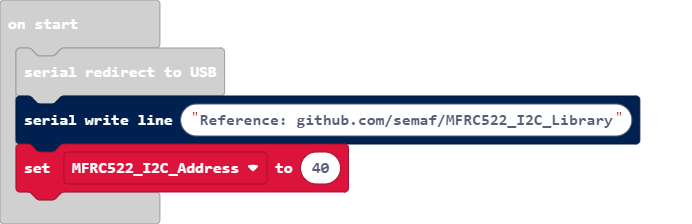
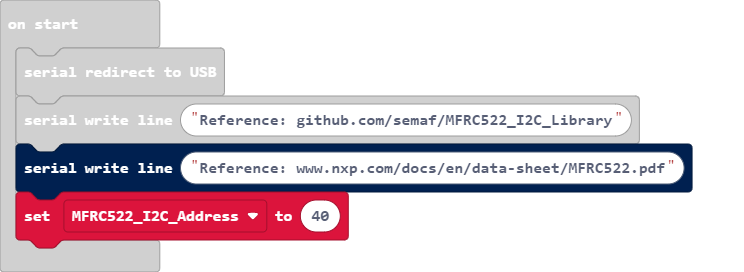
add reference

Changed region(s): [[0.0, 0.0, 0.9408, 1.0], [0.0, 0.0625, 0.1214, 0.125]]

diff --git a/main.ts b/main.ts
@@ -94,6 +94,7 @@ let tmp = 0
 let MFRC522_I2C_Address = 0
 serial.redirectToUSB()
 serial.writeLine("Reference: github.com/semaf/MFRC522_I2C_Library")
+serial.writeLine("Reference: www.nxp.com/docs/en/data-sheet/MFRC522.pdf")
 MFRC522_I2C_Address = 40
 basic.forever(function () {
     serial.writeLine("PCD_WriteRegister(TxModeReg, 0x00);")
